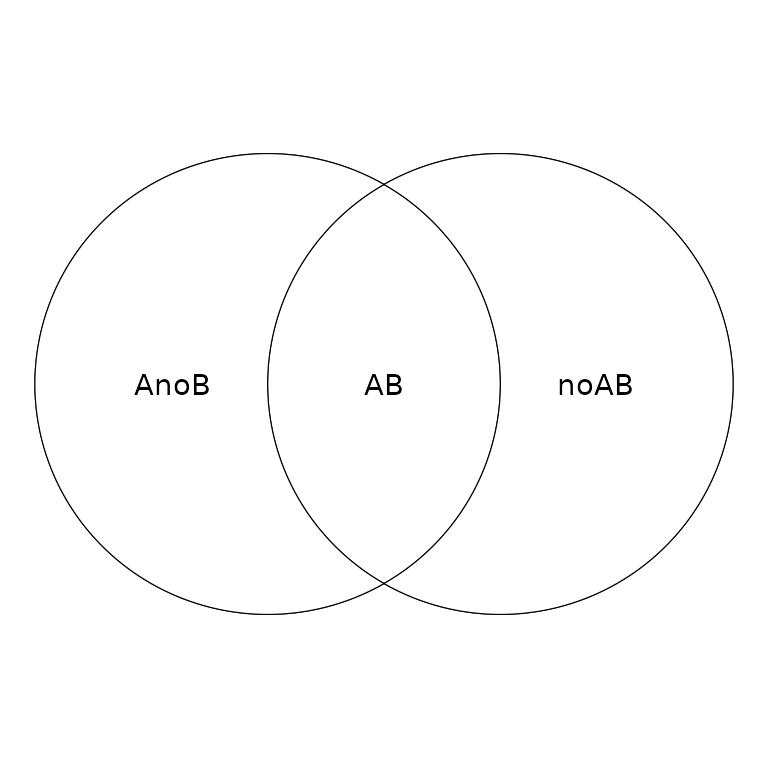
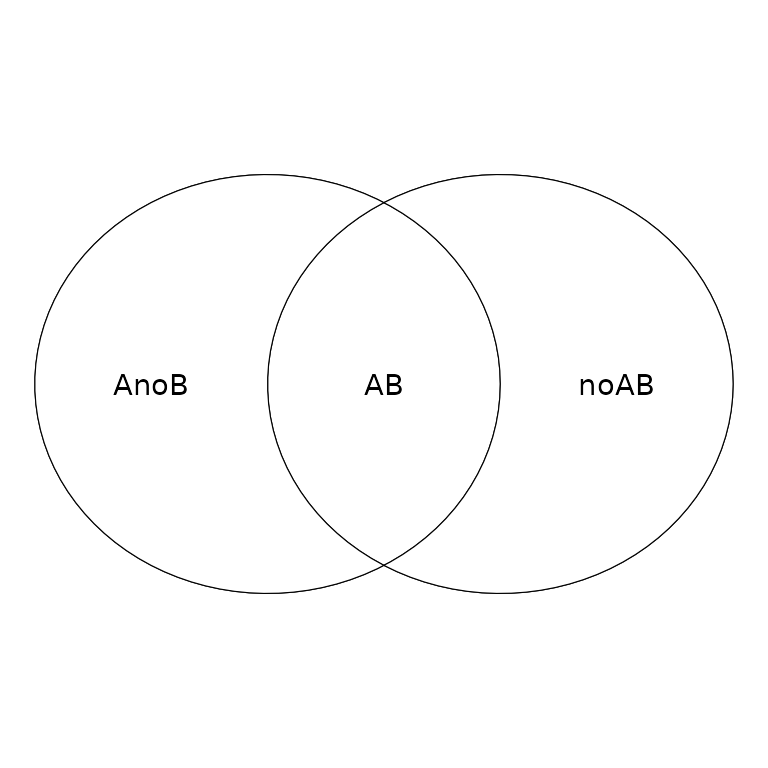
update to v1.1.0

diff --git a/docs/articles/06-shaded_2d_venn.html b/docs/articles/06-shaded_2d_venn.html
@@ -40,7 +40,7 @@
       </button>
       <span class="navbar-brand">
         <a class="navbar-link" href="../index.html">ggmitji</a>
-        <span class="version label label-default" data-toggle="tooltip" data-placement="bottom" title="">1.0.0</span>
+        <span class="version label label-default" data-toggle="tooltip" data-placement="bottom" title="">1.1.0</span>
       </span>
     </div>
 
@@ -133,7 +133,6 @@
   <span class="fu"><a href="https://ggplot2.tidyverse.org/reference/annotate.html" class="external-link">annotate</a></span><span class="op">(</span><span class="st">"text"</span>, label <span class="op">=</span> <span class="st">"noAB"</span>, x <span class="op">=</span> <span class="fl">.8</span>, y <span class="op">=</span> <span class="fl">.5</span>, hjust <span class="op">=</span> <span class="fl">.5</span>, vjust <span class="op">=</span> <span class="fl">.5</span><span class="op">)</span> <span class="op">+</span>
   <span class="fu"><a href="https://ggplot2.tidyverse.org/reference/annotate.html" class="external-link">annotate</a></span><span class="op">(</span><span class="st">"text"</span>, label <span class="op">=</span> <span class="st">"Name of each area"</span>, x <span class="op">=</span> <span class="fl">.5</span>, y <span class="op">=</span> <span class="fl">1.06</span>, hjust <span class="op">=</span> <span class="fl">.5</span>, vjust <span class="op">=</span> <span class="fl">0</span>, fontface <span class="op">=</span> <span class="st">"bold"</span>, size <span class="op">=</span> <span class="fl">8</span><span class="op">)</span> <span class="op">+</span>
   <span class="fu"><a href="https://ggplot2.tidyverse.org/reference/coord_cartesian.html" class="external-link">coord_cartesian</a></span><span class="op">(</span>ylim <span class="op">=</span> <span class="fu"><a href="https://rdrr.io/r/base/c.html" class="external-link">c</a></span><span class="op">(</span><span class="fl">0</span>, <span class="fl">1</span><span class="op">)</span><span class="op">)</span></code></pre></div>
-<p><img src="06-shaded_2d_venn_files/figure-html/unnamed-chunk-2-1.png" width="384" style="display: block; margin: auto;"></p>
 <div class="sourceCode" id="cb3"><pre class="downlit sourceCode r">
 <code class="sourceCode R"><span class="va">areas</span></code></pre></div>
 <p><img src="06-shaded_2d_venn_files/figure-html/unnamed-chunk-3-1.png" width="384" style="display: block; margin: auto;"></p>
@@ -143,7 +142,6 @@
 <span class="va">v3</span> <span class="op">&lt;-</span> <span class="fu"><a href="../reference/shaded_2d_venn.html">shaded_2d_venn</a></span><span class="op">(</span>highlight <span class="op">=</span> <span class="st">"AnoB"</span>, color <span class="op">=</span> <span class="st">"yellow"</span><span class="op">)</span>
 <span class="va">v4</span> <span class="op">&lt;-</span> <span class="fu"><a href="../reference/shaded_2d_venn.html">shaded_2d_venn</a></span><span class="op">(</span>highlight <span class="op">=</span> <span class="fu"><a href="https://rdrr.io/r/base/c.html" class="external-link">c</a></span><span class="op">(</span><span class="st">"AB"</span>, <span class="st">"AnoB"</span>, <span class="st">"noAB"</span><span class="op">)</span>, <span class="fu"><a href="https://rdrr.io/r/base/c.html" class="external-link">c</a></span><span class="op">(</span><span class="st">"red"</span>, <span class="st">"yellow"</span>, <span class="st">"green"</span><span class="op">)</span><span class="op">)</span>
 <span class="va">v5</span> <span class="op">&lt;-</span> <span class="fu"><a href="../reference/shaded_2d_venn.html">shaded_2d_venn</a></span><span class="op">(</span>highlight <span class="op">=</span> <span class="st">"all"</span>, color <span class="op">=</span> <span class="st">"black"</span>, line.col <span class="op">=</span> <span class="st">"white"</span><span class="op">)</span></code></pre></div>
-<p><img src="06-shaded_2d_venn_files/figure-html/unnamed-chunk-4-1.png" width="384" style="display: block; margin: auto;"></p>
 <div class="sourceCode" id="cb5"><pre class="downlit sourceCode r">
 <code class="sourceCode R"><span class="op">(</span><span class="va">v1</span> <span class="op">+</span> <span class="va">v2</span> <span class="op">+</span> <span class="va">v3</span><span class="op">)</span> <span class="op">/</span> <span class="op">(</span><span class="va">v4</span> <span class="op">+</span> <span class="va">v5</span><span class="op">)</span></code></pre></div>
 <p><img src="06-shaded_2d_venn_files/figure-html/unnamed-chunk-5-1.png" width="672" style="display: block; margin: auto;"></p>
@@ -159,7 +157,7 @@
 
       <footer><div class="copyright">
   <p></p>
-<p>Developed by Adria Mitjavila Ventura.</p>
+<p>Developed by Adria Mitjavila-Ventura.</p>
 </div>
 
 <div class="pkgdown">

diff --git a/docs/articles/07-shaded_3d_venn.html b/docs/articles/07-shaded_3d_venn.html
@@ -40,7 +40,7 @@
       </button>
       <span class="navbar-brand">
         <a class="navbar-link" href="../index.html">ggmitji</a>
-        <span class="version label label-default" data-toggle="tooltip" data-placement="bottom" title="">1.0.0</span>
+        <span class="version label label-default" data-toggle="tooltip" data-placement="bottom" title="">1.1.0</span>
       </span>
     </div>
 
@@ -136,7 +136,6 @@
   <span class="fu"><a href="https://ggplot2.tidyverse.org/reference/annotate.html" class="external-link">annotate</a></span><span class="op">(</span><span class="st">"text"</span>, label <span class="op">=</span> <span class="st">"noAnoBC"</span>, x <span class="op">=</span> <span class="fl">.5</span>, y <span class="op">=</span> <span class="fl">.25</span>, hjust <span class="op">=</span> <span class="fl">.5</span>, vjust <span class="op">=</span> <span class="fl">.5</span><span class="op">)</span> <span class="op">+</span>
   <span class="fu"><a href="https://ggplot2.tidyverse.org/reference/annotate.html" class="external-link">annotate</a></span><span class="op">(</span><span class="st">"text"</span>, label <span class="op">=</span> <span class="st">"Name of each area"</span>, x <span class="op">=</span> <span class="fl">.5</span>, y <span class="op">=</span> <span class="fl">1.06</span>, hjust <span class="op">=</span> <span class="fl">.5</span>, vjust <span class="op">=</span> <span class="fl">0</span>, fontface <span class="op">=</span> <span class="st">"bold"</span>, size <span class="op">=</span> <span class="fl">8</span><span class="op">)</span> <span class="op">+</span>
   <span class="fu"><a href="https://ggplot2.tidyverse.org/reference/coord_cartesian.html" class="external-link">coord_cartesian</a></span><span class="op">(</span>ylim <span class="op">=</span> <span class="fu"><a href="https://rdrr.io/r/base/c.html" class="external-link">c</a></span><span class="op">(</span><span class="fl">0</span>, <span class="fl">1.1</span><span class="op">)</span><span class="op">)</span></code></pre></div>
-<p><img src="07-shaded_3d_venn_files/figure-html/unnamed-chunk-2-1.png" width="384" style="display: block; margin: auto;"></p>
 <div class="sourceCode" id="cb3"><pre class="downlit sourceCode r">
 <code class="sourceCode R"><span class="va">areas</span></code></pre></div>
 <p><img src="07-shaded_3d_venn_files/figure-html/unnamed-chunk-3-1.png" width="384" style="display: block; margin: auto;"></p>
@@ -144,7 +143,6 @@
 <code class="sourceCode R"><span class="va">v1</span> <span class="op">&lt;-</span> <span class="fu"><a href="../reference/shaded_3d_venn.html">shaded_3d_venn</a></span><span class="op">(</span>highlight <span class="op">=</span> <span class="st">"ABC"</span>, color <span class="op">=</span> <span class="st">"red"</span><span class="op">)</span>
 <span class="va">v2</span> <span class="op">&lt;-</span> <span class="fu"><a href="../reference/shaded_3d_venn.html">shaded_3d_venn</a></span><span class="op">(</span>highlight <span class="op">=</span> <span class="fu"><a href="https://rdrr.io/r/base/c.html" class="external-link">c</a></span><span class="op">(</span><span class="st">"AnoBnoC"</span>, <span class="st">"noABC"</span><span class="op">)</span>, <span class="fu"><a href="https://rdrr.io/r/base/c.html" class="external-link">c</a></span><span class="op">(</span><span class="st">"yellow"</span>, <span class="st">"green"</span><span class="op">)</span><span class="op">)</span>
 <span class="va">v3</span> <span class="op">&lt;-</span> <span class="fu"><a href="../reference/shaded_3d_venn.html">shaded_3d_venn</a></span><span class="op">(</span>highlight <span class="op">=</span> <span class="st">"all"</span>, color <span class="op">=</span> <span class="st">"black"</span>, line.col <span class="op">=</span> <span class="st">"white"</span><span class="op">)</span></code></pre></div>
-<p><img src="07-shaded_3d_venn_files/figure-html/unnamed-chunk-4-1.png" width="384" style="display: block; margin: auto;"></p>
 <div class="sourceCode" id="cb5"><pre class="downlit sourceCode r">
 <code class="sourceCode R"><span class="op">(</span><span class="va">v1</span> <span class="op">+</span> <span class="va">v2</span> <span class="op">+</span> <span class="va">v3</span><span class="op">)</span></code></pre></div>
 <p><img src="07-shaded_3d_venn_files/figure-html/unnamed-chunk-5-1.png" width="672" style="display: block; margin: auto;"></p>
@@ -160,7 +158,7 @@
 
       <footer><div class="copyright">
   <p></p>
-<p>Developed by Adria Mitjavila Ventura.</p>
+<p>Developed by Adria Mitjavila-Ventura.</p>
 </div>
 
 <div class="pkgdown">

diff --git a/docs/index.html b/docs/index.html
@@ -40,7 +40,7 @@
       </button>
       <span class="navbar-brand">
         <a class="navbar-link" href="index.html">ggmitji</a>
-        <span class="version label label-default" data-toggle="tooltip" data-placement="bottom" title="">1.0.0</span>
+        <span class="version label label-default" data-toggle="tooltip" data-placement="bottom" title="">1.1.0</span>
       </span>
     </div>
 
@@ -145,9 +145,6 @@
 <code>magrittr</code> <em>(<code><a href="reference/shaded_2d_venn.html">shaded_2d_venn()</a></code>, <code><a href="reference/shaded_3d_venn.html">shaded_3d_venn()</a></code>)</em>
 </li>
 <li>
-<code>VennDiagram</code> <em>(<code><a href="reference/shaded_2d_venn.html">shaded_2d_venn()</a></code>, <code><a href="reference/shaded_3d_venn.html">shaded_3d_venn()</a></code>)</em>
-</li>
-<li>
 <code>polyclip</code> <em>(<code><a href="reference/shaded_2d_venn.html">shaded_2d_venn()</a></code>, <code><a href="reference/shaded_3d_venn.html">shaded_3d_venn()</a></code>)</em>
 </li>
 <li>
@@ -186,9 +183,21 @@
 <div class="section level2">
 <h2 id="versions">Versions<a class="anchor" aria-label="anchor" href="#versions"></a>
 </h2>
-<p><code>1.0.0</code>:</p>
+<ul>
+<li>
+<code>1.0.0</code>:
 <ul>
 <li>Initial package.</li>
+</ul>
+</li>
+<li>
+<code>1.0.1</code>:
+<ul>
+<li>Add new function: <code><a href="reference/draw_polygon.html">draw_polygon()</a></code>.</li>
+<li>
+<code>shaded_*d_venn()</code>: add internal function to calculate coordinates of circles instead of relying on <code>VennDiagram</code>.</li>
+</ul>
+</li>
 </ul>
 </div>
 </div>

diff --git a/docs/articles/05-stat_point_boxplot.html b/docs/articles/05-stat_point_boxplot.html
@@ -40,7 +40,7 @@
       </button>
       <span class="navbar-brand">
         <a class="navbar-link" href="../index.html">ggmitji</a>
-        <span class="version label label-default" data-toggle="tooltip" data-placement="bottom" title="">1.0.0</span>
+        <span class="version label label-default" data-toggle="tooltip" data-placement="bottom" title="">1.1.0</span>
       </span>
     </div>
 
@@ -154,7 +154,7 @@
 
       <footer><div class="copyright">
   <p></p>
-<p>Developed by Adria Mitjavila Ventura.</p>
+<p>Developed by Adria Mitjavila-Ventura.</p>
 </div>
 
 <div class="pkgdown">

diff --git a/docs/articles/08-draw_polygon.html b/docs/articles/08-draw_polygon.html
@@ -40,7 +40,7 @@
       </button>
       <span class="navbar-brand">
         <a class="navbar-link" href="../index.html">ggmitji</a>
-        <span class="version label label-default" data-toggle="tooltip" data-placement="bottom" title="">1.0.0</span>
+        <span class="version label label-default" data-toggle="tooltip" data-placement="bottom" title="">1.1.0</span>
       </span>
     </div>
 
@@ -142,7 +142,7 @@
 
       <footer><div class="copyright">
   <p></p>
-<p>Developed by Adria Mitjavila Ventura.</p>
+<p>Developed by Adria Mitjavila-Ventura.</p>
 </div>
 
 <div class="pkgdown">

diff --git a/docs/reference/draw_polygon.html b/docs/reference/draw_polygon.html
@@ -19,7 +19,7 @@ It is useful to inidcate that the data from a figure comes from an intersection.
       </button>
       <span class="navbar-brand">
         <a class="navbar-link" href="../index.html">ggmitji</a>
-        <span class="version label label-default" data-toggle="tooltip" data-placement="bottom" title="">1.0.0</span>
+        <span class="version label label-default" data-toggle="tooltip" data-placement="bottom" title="">1.1.0</span>
       </span>
     </div>
 

diff --git a/docs/reference/shaded_2d_venn.html b/docs/reference/shaded_2d_venn.html
@@ -19,7 +19,7 @@ It is useful to inidcate that the data from a figure comes from an intersection.
       </button>
       <span class="navbar-brand">
         <a class="navbar-link" href="../index.html">ggmitji</a>
-        <span class="version label label-default" data-toggle="tooltip" data-placement="bottom" title="">1.0.0</span>
+        <span class="version label label-default" data-toggle="tooltip" data-placement="bottom" title="">1.1.0</span>
       </span>
     </div>
 

diff --git a/docs/reference/shaded_3d_venn.html b/docs/reference/shaded_3d_venn.html
@@ -19,7 +19,7 @@ It is useful to inidcate that the data from a figure comes from an intersection.
       </button>
       <span class="navbar-brand">
         <a class="navbar-link" href="../index.html">ggmitji</a>
-        <span class="version label label-default" data-toggle="tooltip" data-placement="bottom" title="">1.0.0</span>
+        <span class="version label label-default" data-toggle="tooltip" data-placement="bottom" title="">1.1.0</span>
       </span>
     </div>
 

diff --git a/docs/reference/theme_custom.html b/docs/reference/theme_custom.html
@@ -18,7 +18,7 @@ It uses ggpubr::theme_pubr() and other parameters passed through ggplot2::theme(
       </button>
       <span class="navbar-brand">
         <a class="navbar-link" href="../index.html">ggmitji</a>
-        <span class="version label label-default" data-toggle="tooltip" data-placement="bottom" title="">1.0.0</span>
+        <span class="version label label-default" data-toggle="tooltip" data-placement="bottom" title="">1.1.0</span>
       </span>
     </div>
 

diff --git a/docs/reference/theme_ggvenn.html b/docs/reference/theme_ggvenn.html
@@ -18,7 +18,7 @@ It uses ggplot2::theme()"><meta property="og:image" content="/logo.png"><!-- mat
       </button>
       <span class="navbar-brand">
         <a class="navbar-link" href="../index.html">ggmitji</a>
-        <span class="version label label-default" data-toggle="tooltip" data-placement="bottom" title="">1.0.0</span>
+        <span class="version label label-default" data-toggle="tooltip" data-placement="bottom" title="">1.1.0</span>
       </span>
     </div>
 

diff --git a/docs/articles/01-fill_strips_top.html b/docs/articles/01-fill_strips_top.html
@@ -40,7 +40,7 @@
       </button>
       <span class="navbar-brand">
         <a class="navbar-link" href="../index.html">ggmitji</a>
-        <span class="version label label-default" data-toggle="tooltip" data-placement="bottom" title="">1.0.0</span>
+        <span class="version label label-default" data-toggle="tooltip" data-placement="bottom" title="">1.1.0</span>
       </span>
     </div>
 

diff --git a/docs/articles/02-fill_strips_right.html b/docs/articles/02-fill_strips_right.html
@@ -40,7 +40,7 @@
       </button>
       <span class="navbar-brand">
         <a class="navbar-link" href="../index.html">ggmitji</a>
-        <span class="version label label-default" data-toggle="tooltip" data-placement="bottom" title="">1.0.0</span>
+        <span class="version label label-default" data-toggle="tooltip" data-placement="bottom" title="">1.1.0</span>
       </span>
     </div>
 
